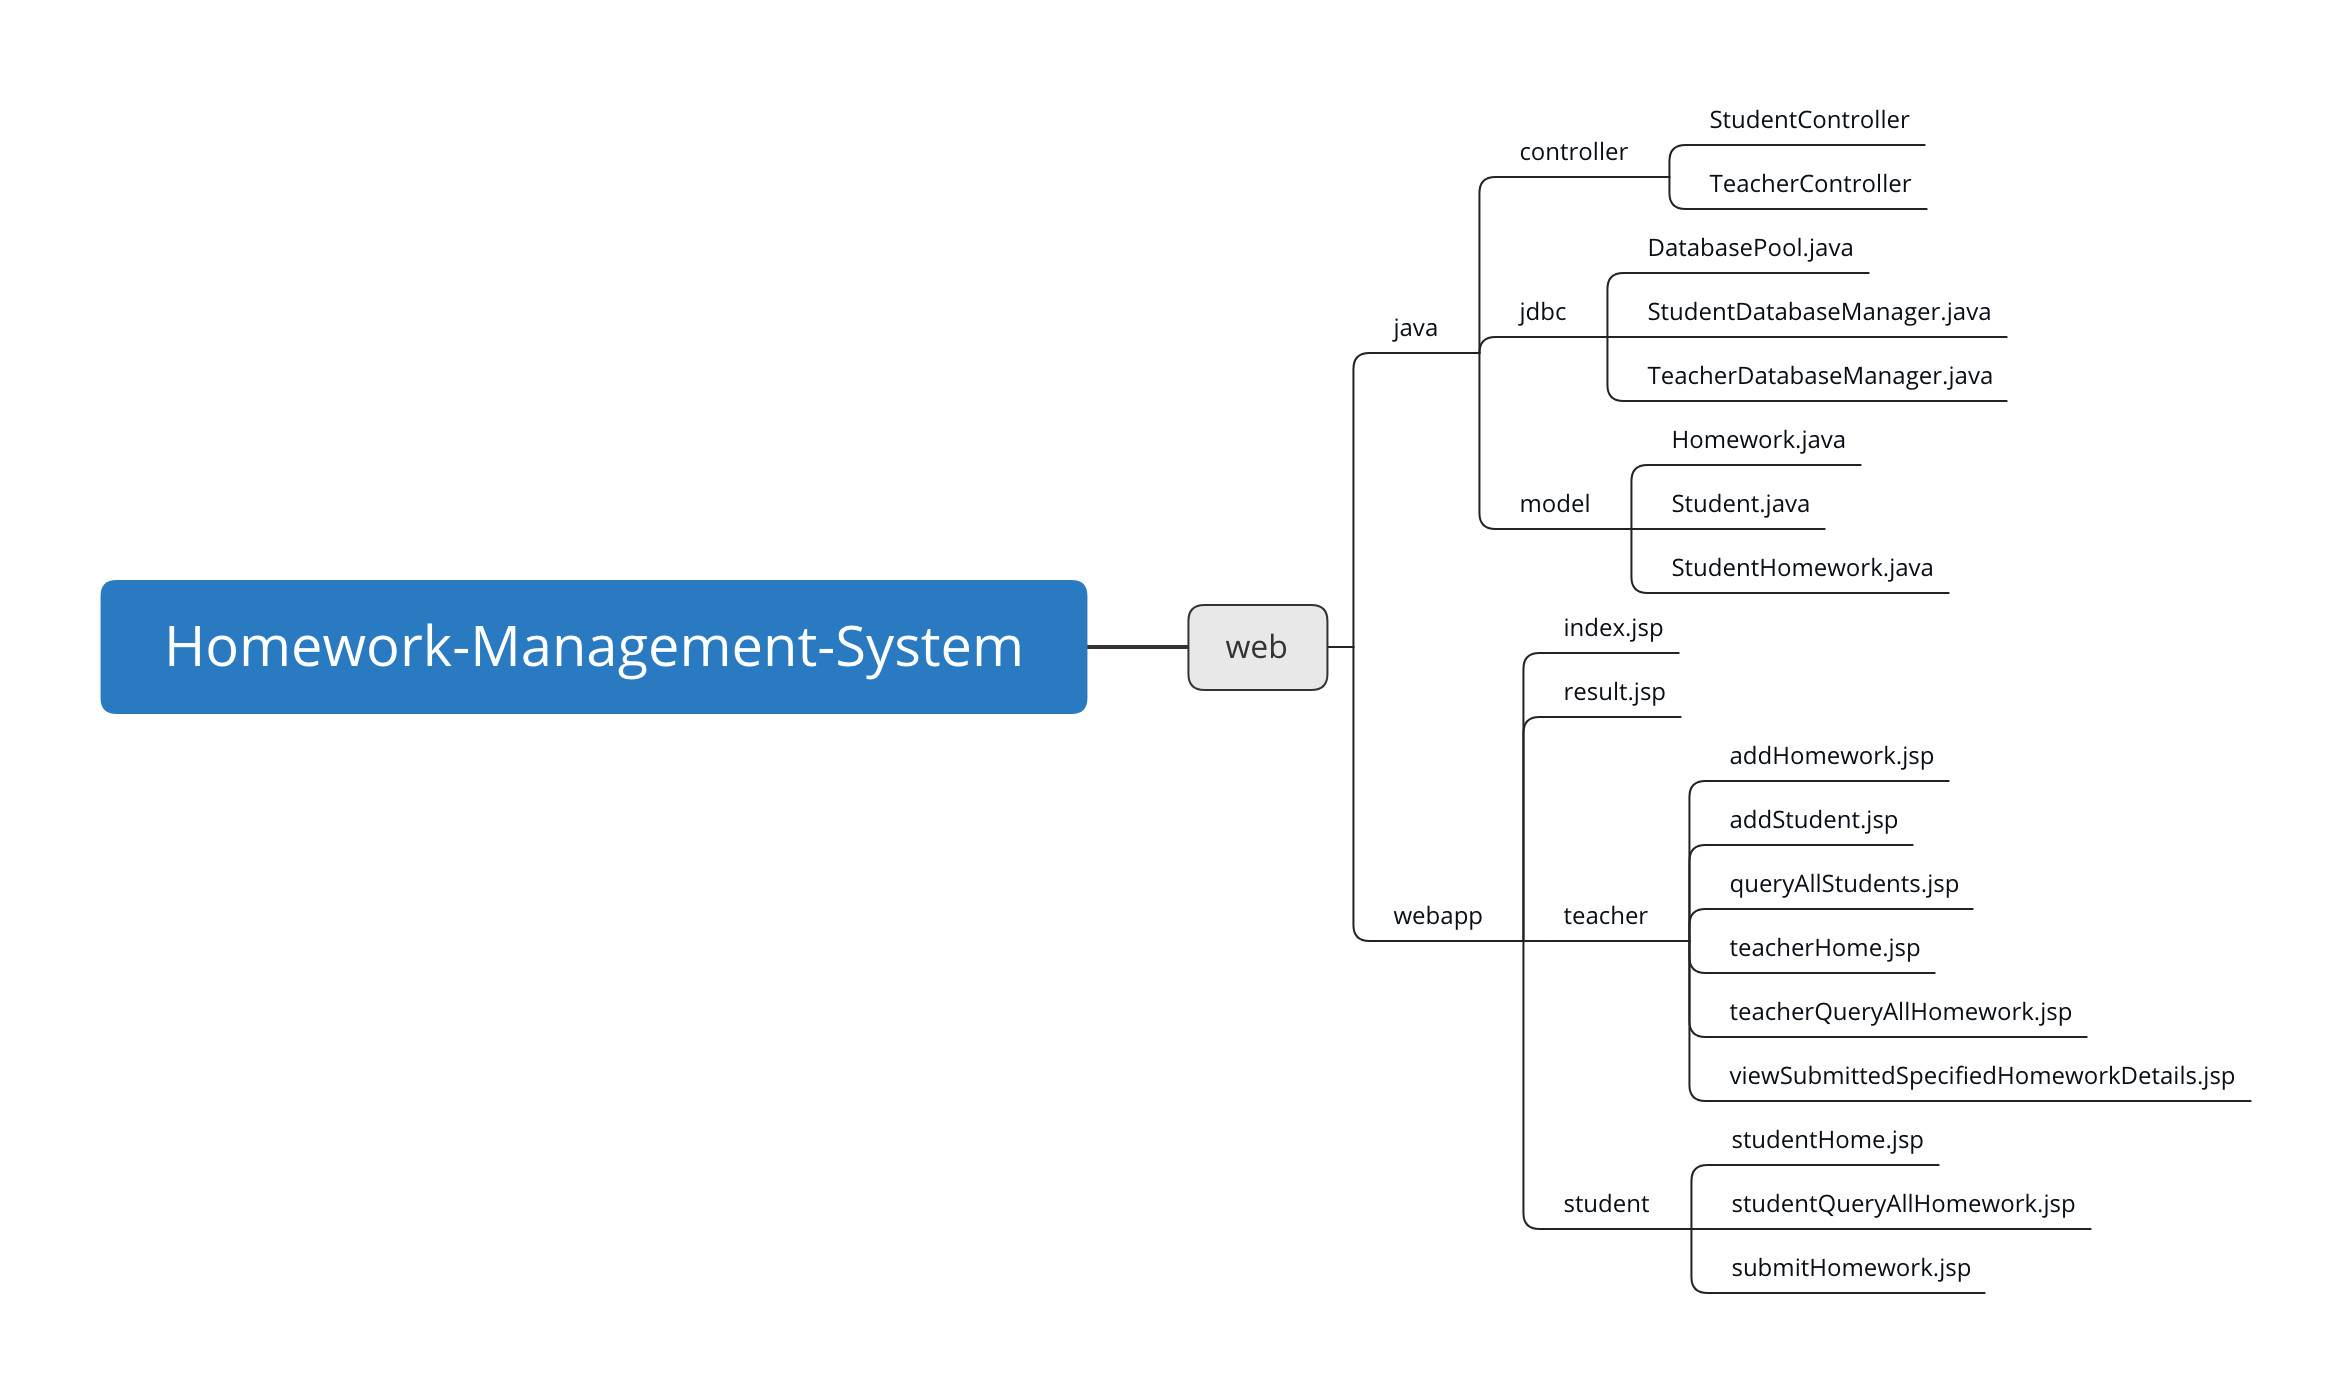
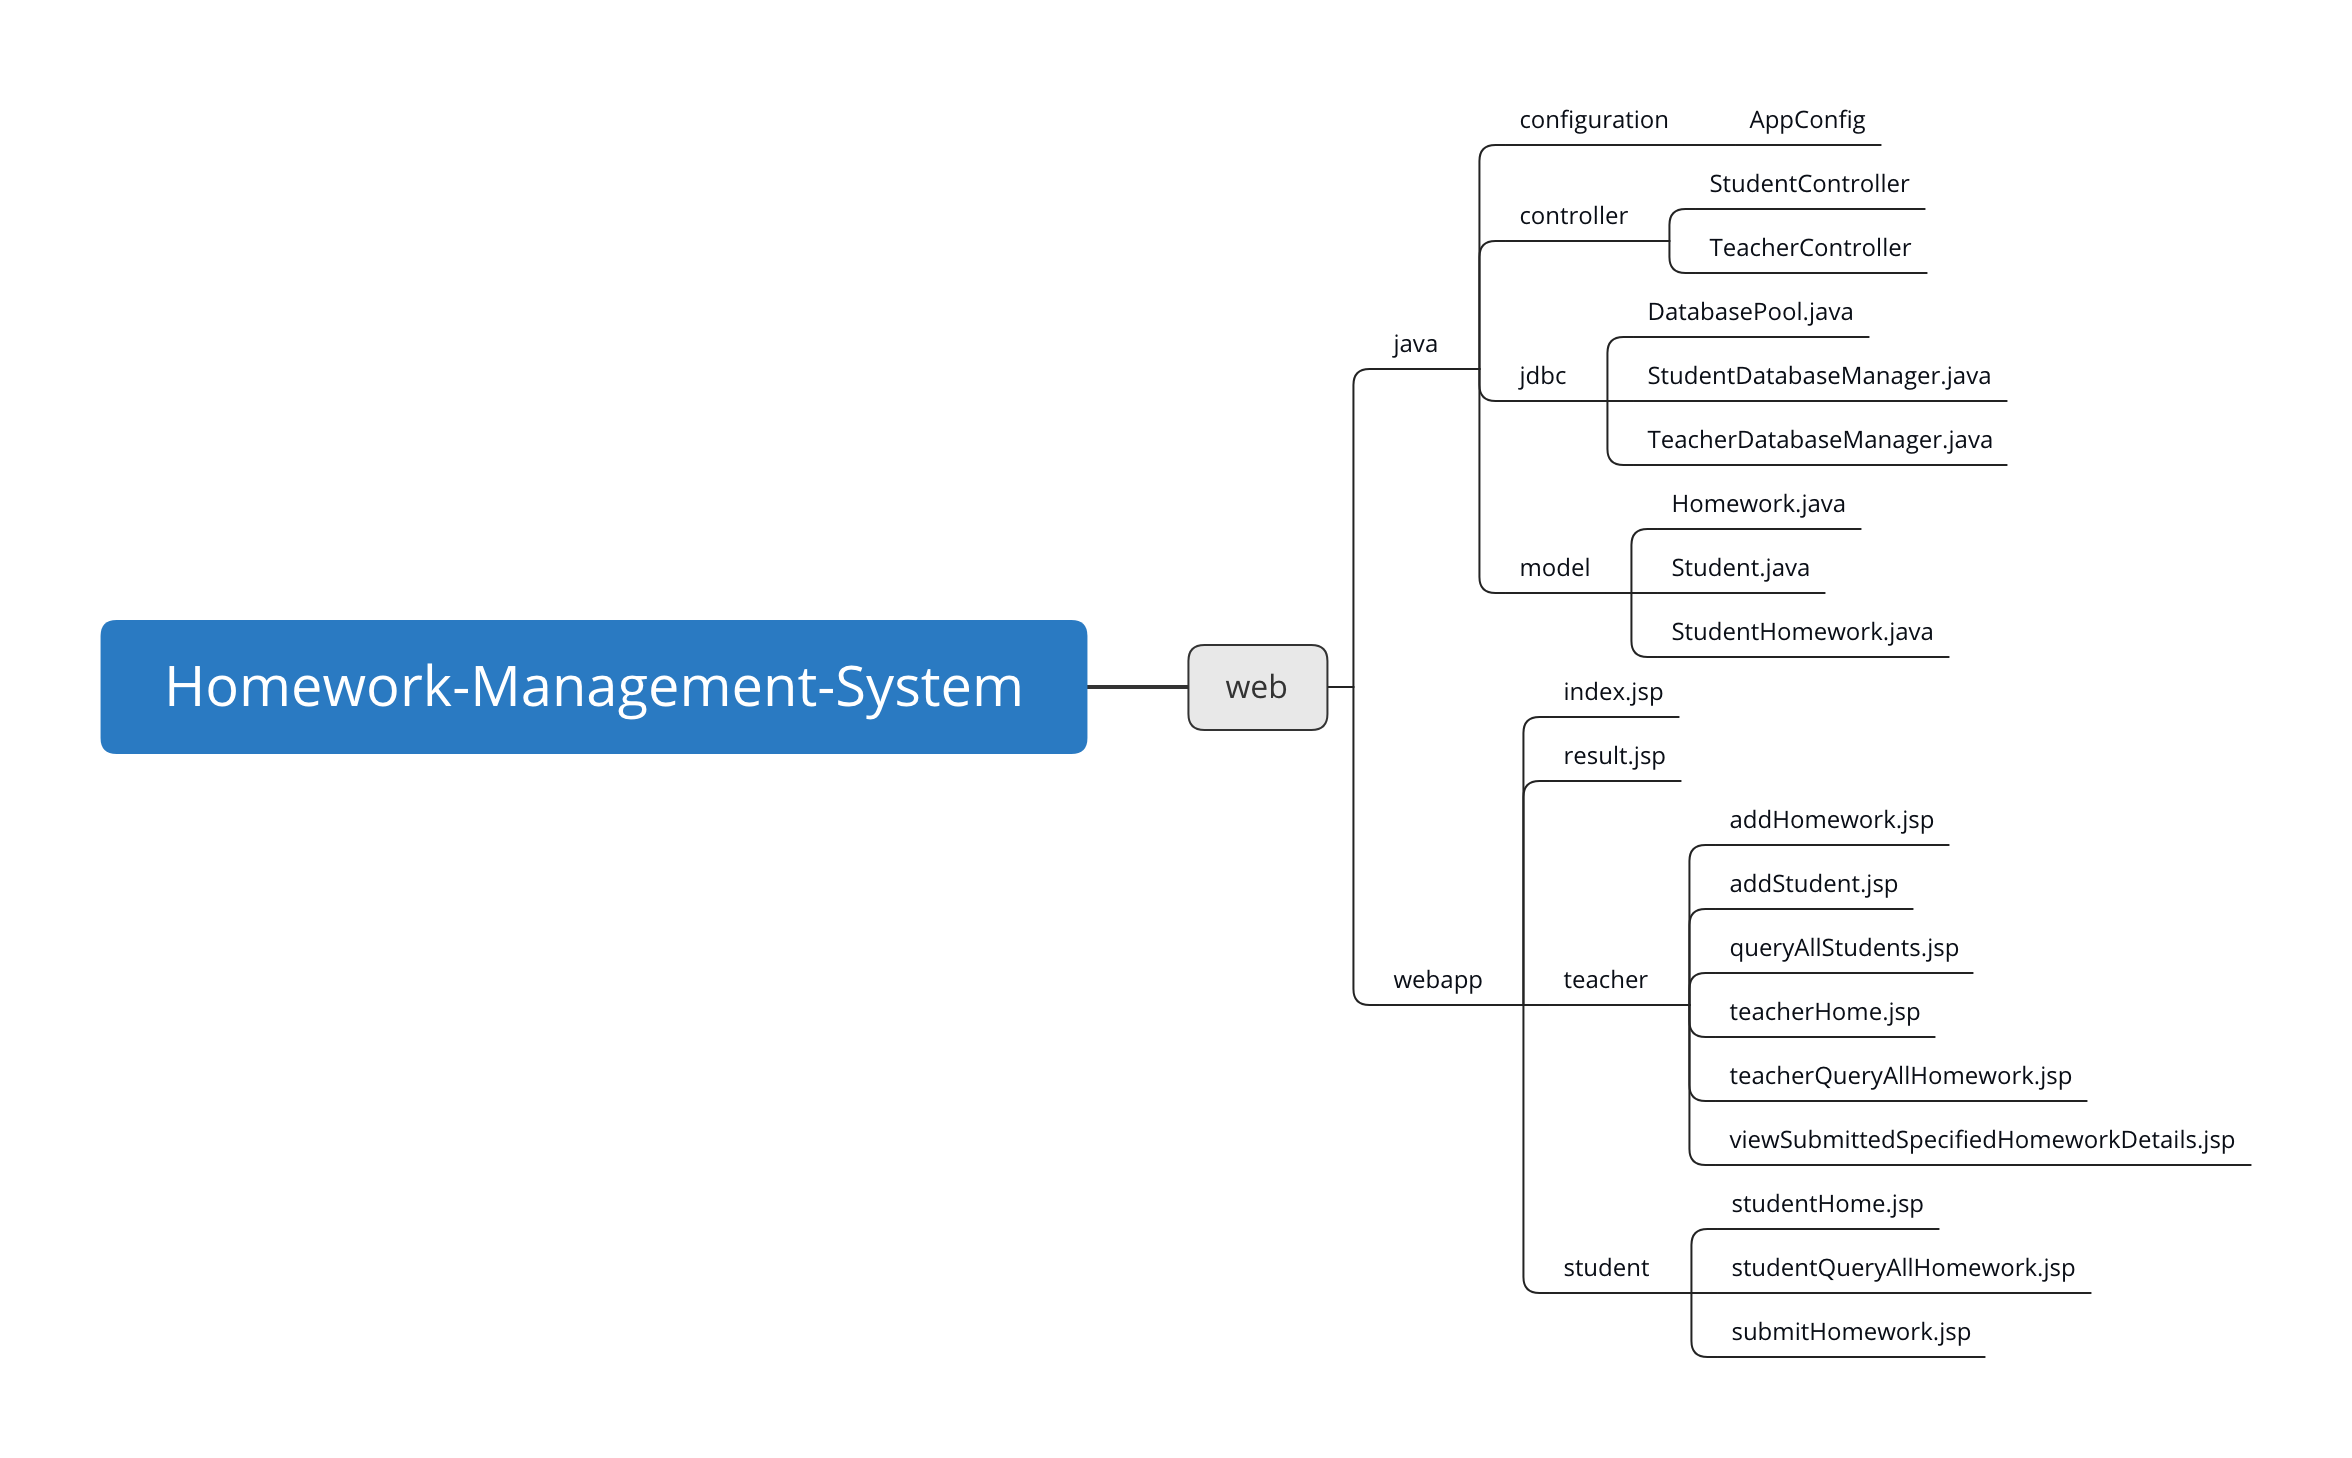
更新README

diff --git a/README.md b/README.md
@@ -4,8 +4,8 @@
 
 ## 环境
 
- - macOS Catalina 10.15.3
- - IntelliJ IDEA Ultimate 2019.3.4
+ - macOS Catalina 10.15.4
+ - IntelliJ IDEA Ultimate 2020.1
  - Java SE 11.0.5 LTS
  - MySQL 8.0.19
  - MySQL Connector for Java 8.0.19
@@ -26,6 +26,16 @@
 
 <br>
 
+- configuration包结构
+![在这里插入图片描述](https://github.com/Yi1275432232/Homework-Management-System/blob/4.x/images/4.x%20configuration包结构.png)
+
+<br>
+
+- controller包结构
+![在这里插入图片描述](https://github.com/Yi1275432232/Homework-Management-System/blob/3.x/images/3.x%20controller包结构.png)
+
+<br>
+
 - jdbc包结构
   ![在这里插入图片描述](https://github.com/Yi1275432232/Homework-Management-System/blob/4.x/images/4.x%20jdbc包结构.png)
 
@@ -37,11 +47,6 @@
 
 <br>
 
-- controller包结构
-![在这里插入图片描述](https://github.com/Yi1275432232/Homework-Management-System/blob/3.x/images/3.x%20controller包结构.png)
-
-<br>
-
 ### 数据库设计
 
 ![在这里插入图片描述](https://github.com/Yi1275432232/Homework-Management-System/blob/2.x/images/数据库结构.png)
@@ -50,6 +55,6 @@
 
 ### 交互结构
 
-![在这里插入图片描述](https://github.com/Yi1275432232/Homework-Management-System/blob/2.x/images/2.x交互设计.png)
+![在这里插入图片描述](https://github.com/Yi1275432232/Homework-Management-System/blob/4.x/images/4.x交互设计.png)
 
 <br>
